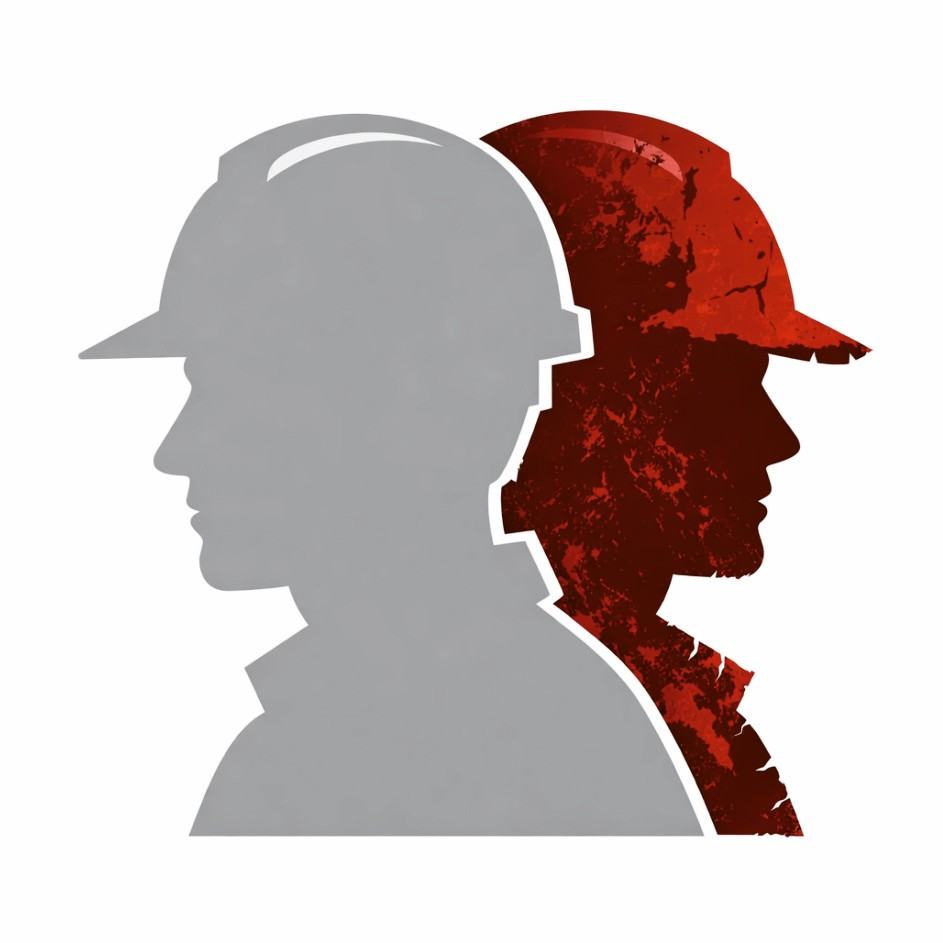
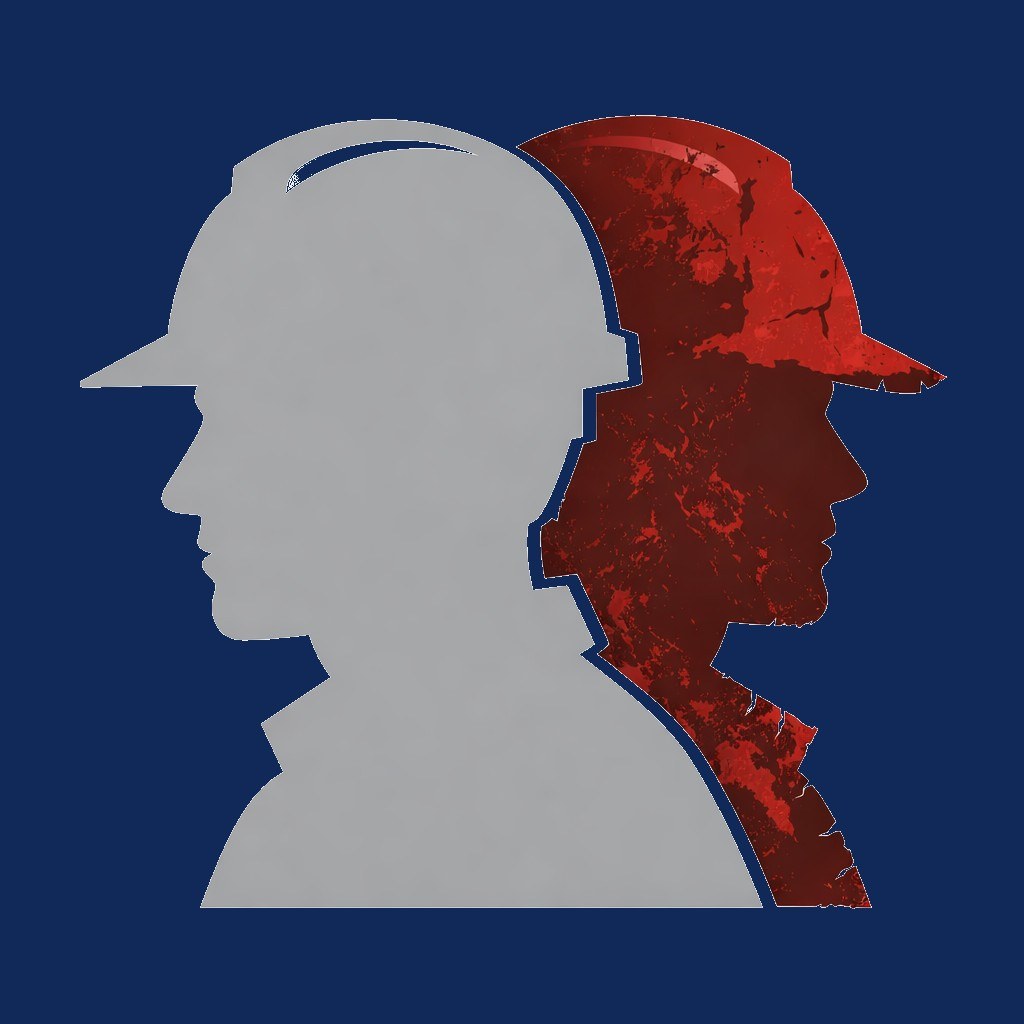
Amendmen to wording and picture

diff --git a/src/pages/Home.tsx b/src/pages/Home.tsx
@@ -135,7 +135,7 @@ function FeatureHighlights() {
   const cards = [
     {
       title: "Free",
-      body: "Checking a trader has never been easier. Just enter their name or telephone number, and click.",
+      body: "Verifying a trader has never been easier. Just enter their name or telephone number, and click.",
     },
     {
       title: "Confidential",